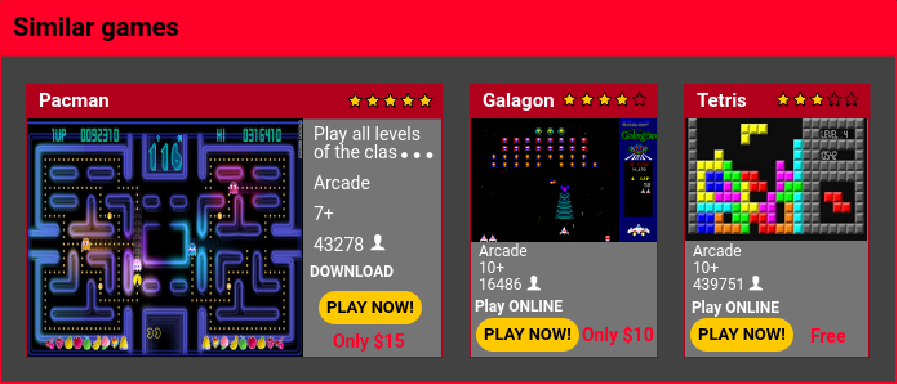
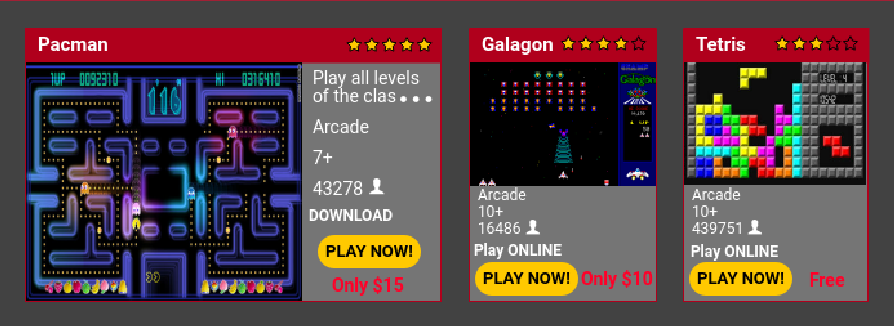
game page terminada

diff --git a/TP5/game-page.html b/TP5/game-page.html
@@ -345,15 +345,17 @@
 
                   </div>
                   <div class="col-8 container-within-card-body">
+
                     <div class="container-tab-content active" id="content-top-players">
+
                       <div class="row container-player-info">
-                        <div class="col-2 container-player-number">
+                        <div class="col-2 container-player-number border-dotted">
                           <button class="top-player-number" type="button" name="button">1</button>
                         </div>
-                        <div class="col-2">
+                        <div class="col-2 border-dotted">
                           <img class="avatar img-fluid" src="images/avatar-lola.jpg" alt="">
                         </div>
-                        <div class="col-5">
+                        <div class="col-4 border-dotted">
                           <div class="row">
                             <div class="col">
                               <h3>Lola_167</h3>
@@ -370,18 +372,26 @@
                             </div>
                           </div>
                         </div>
-                        <div class="col-3">
-
+                        <div class="col-4 container-player-ranking border-dotted">
+                          <div class="row">
+                            <div class="col container-player-ranking-symbol">
+                              <i class="fas fa-arrow-up fa-2x"></i>
+                            </div>
+                            <div class="col container-player-ranking-info">
+                              From 2
+                            </div>
+                          </div>
                         </div>
                       </div>
+
                       <div class="row container-player-info">
-                        <div class="col-2 container-player-number">
+                        <div class="col-2 container-player-number border-dotted">
                           <button class="top-player-number" type="button" name="button">2</button>
                         </div>
-                        <div class="col-2">
+                        <div class="col-2 border-dotted">
                           <img class="avatar img-fluid" src="images/avatar-marky.jpg" alt="">
                         </div>
-                        <div class="col-5">
+                        <div class="col-4 border-dotted">
                           <div class="row">
                             <div class="col">
                               <h3>MarkyMark9</h3>
@@ -398,10 +408,18 @@
                             </div>
                           </div>
                         </div>
-                        <div class="col-3">
-
+                        <div class="col-4 container-player-ranking border-dotted">
+                          <div class="row">
+                            <div class="col container-player-ranking-symbol">
+                              <i class="fas fa-arrow-down fa-2x"></i>
+                            </div>
+                            <div class="col container-player-ranking-info">
+                              From 1
+                            </div>
+                          </div>
                         </div>
                       </div>
+
                       <div class="row container-player-info">
                         <div class="col-2 container-player-number">
                           <button class="top-player-number" type="button" name="button">3</button>
@@ -409,7 +427,7 @@
                         <div class="col-2">
                           <img class="avatar img-fluid" src="images/avatar-john.jpg" alt="">
                         </div>
-                        <div class="col-5">
+                        <div class="col-4">
                           <div class="row">
                             <div class="col">
                               <h3>John_Doe</h3>
@@ -426,17 +444,133 @@
                             </div>
                           </div>
                         </div>
-                        <div class="col-3">
+                        <div class="col-4 container-player-ranking">
+                          <div class="row">
+                            <div class="col container-player-ranking-symbol">
+                              <i class="fas fa-arrow-up fa-2x"></i>
+                            </div>
+                            <div class="col container-player-ranking-info">
+                              From 5
+                            </div>
+                          </div>
+                        </div>
+                      </div>
 
+                    </div>
+
+                    <div class="container-tab-content inactive container-player-comments" id="content-comments">
+                      <div class="row container-comment">
+                        <div class="col-2">
+                          <img class="avatar img-fluid" src="images/avatar-1.jpg" alt="">
+                        </div>
+                        <div class="col-10">
+                          <div class="row">
+                            <div class="col inner-title">
+                              <span id="comment-name-1"></span>
+                            </div>
+                          </div>
+                          <div class="row">
+                            <div class="col">
+                              <span id="comment-text-1"></span>
+                            </div>
+                          </div>
+                        </div>
+                      </div>
+                      <div class="row container-comment">
+                        <div class="col-2">
+                          <img class="avatar img-fluid" src="images/avatar-2.jpg" alt="">
+                        </div>
+                        <div class="col-10">
+                          <div class="row">
+                            <div class="col inner-title">
+                              <span id="comment-name-2"></span>
+                            </div>
+                          </div>
+                          <div class="row">
+                            <div class="col">
+                              <span id="comment-text-2"></span>
+                            </div>
+                          </div>
+                        </div>
+                      </div>
+                      <div class="row container-comment">
+                        <div class="col-2">
+                          <img class="avatar img-fluid" src="images/avatar-3.jpg" alt="">
+                        </div>
+                        <div class="col-10">
+                          <div class="row">
+                            <div class="col inner-title">
+                              <span id="comment-name-3"></span>
+                            </div>
+                          </div>
+                          <div class="row">
+                            <div class="col">
+                              <span id="comment-text-3"></span>
+                            </div>
+                          </div>
+                        </div>
+                      </div>
+                      <div class="row container-comment">
+                        <div class="col-11">
+                          <input type="text" name="" size="60" value="">
+                        </div>
+                        <div class="col-1">
+                          <button class="button-comment" type="button" name="button"><i class="fas fa-comment"></i></button>
                         </div>
                       </div>
                     </div>
-                    <div class="container-tab-content inactive" id="content-comments">
 
-                    </div>
                   </div>
                 </div>
               </div>
+            </div>
+          </div>
+          <div class="col-1">
+
+          </div>
+        </div>
+
+      </section>
+
+      <section class="similar">
+
+        <div class="row container-section">
+          <div class="col-1">
+
+          </div>
+          <div class="col-10">
+            <div class="card">
+              <div class="card-header">
+                Similar games
+              </div>
+              <div class="card-body">
+                <div class="row container-fluid container-within-card-body">
+                  <div class="col container-within-card-body">
+                    <img class="img-similar img-fluid" src="images/similar.png" alt="">
+                  </div>
+                </div>
+              </div>
+            </div>
+          </div>
+          <div class="col-1">
+
+          </div>
+        </div>
+      </section>
+
+      <div class="divider">
+
+      </div>
+
+      <section class="footer">
+
+        <div class="row container-section">
+          <div class="col-1">
+
+          </div>
+          <div class="col-10">
+            <div class="card no-border">
+              <img class="img-fluid" src="images/footer.png" alt="">
             </div>
           </div>
           <div class="col-1">

diff --git a/TP5/js/GamePage.js b/TP5/js/GamePage.js
@@ -1,1 +1,47 @@
 /*jshint esversion: 6 */
+
+let tabTopPlayers = document.getElementById('tab-top-players');
+let tabComments = document.getElementById('tab-comments');
+let contentTopPlayers = document.getElementById('content-top-players');
+let contentComments = document.getElementById('content-comments');
+
+tabTopPlayers.addEventListener('click', function(e){
+  e.preventDefault();
+  tabComments.classList.remove('active');
+  tabComments.classList.add('inactive');
+  tabTopPlayers.classList.remove('inactive');
+  tabTopPlayers.classList.add('active');
+
+  contentTopPlayers.classList.remove('inactive');
+  contentTopPlayers.classList.add('active');
+  contentComments.classList.remove('active');
+  contentComments.classList.add('inactive');
+});
+
+tabComments.addEventListener('click', function(e){
+  e.preventDefault();
+  tabTopPlayers.classList.remove('active');
+  tabTopPlayers.classList.add('inactive');
+  tabComments.classList.remove('inactive');
+  tabComments.classList.add('active');
+
+  contentTopPlayers.classList.remove('active');
+  contentTopPlayers.classList.add('inactive');
+  contentComments.classList.remove('inactive');
+  contentComments.classList.add('active');
+});
+
+fetch('https://jsonplaceholder.typicode.com/comments')
+  .then(response => response.json())
+  .then(function(json) {
+    document.getElementById('comment-name-1').innerHTML = json[0].name;
+    document.getElementById('comment-name-2').innerHTML = json[1].name;
+    document.getElementById('comment-name-3').innerHTML = json[2].name;
+
+    let text1 = json[0].body.slice(0, 50) + "...";
+    let text2 = json[1].body.slice(0, 50) + "...";
+    let text3 = json[2].body.slice(0, 50) + "...";
+    document.getElementById('comment-text-1').innerHTML = text1;
+    document.getElementById('comment-text-2').innerHTML = text2;
+    document.getElementById('comment-text-3').innerHTML = text3;
+  });

diff --git a/TP5/css/page.css b/TP5/css/page.css
@@ -202,6 +202,7 @@ body{
 .inner-title{
   background-color: #b0001c;
   color: white;
+  width: 100%;
 }
 
 .inner-text{
@@ -239,7 +240,7 @@ body{
   border-bottom: 2px solid white;
 }
 
-#tab-comments.inactive{
+#tab-comments.inactive, #tab-top-players.inactive{
   border-right: 2px solid white;
 }
 
@@ -265,16 +266,16 @@ body{
 }
 
 #content-top-players{
-  padding-top: 7px;
+  padding-top: 10px;
 }
 
-.container-player-info{
+.container-player-info, .container-comment{
   color: white;
-  padding: 3px 60px 3px 60px;
+  padding: 3px 60px 1px 60px;
 }
 
 .container-player-number{
-  padding-top: 5px;
+  padding-top: 10px;
 }
 
 .top-player-number{
@@ -294,6 +295,11 @@ body{
 
 .avatar{
   max-height: 59px;
+  padding-top: 10px;
+}
+
+.container-player-info:hover{
+  transform: scale3d(1.1, 1.1, 1.3);
 }
 
 .container-player-info h3{
@@ -304,4 +310,65 @@ body{
 
 .container-player-info h4{
   font-size: 0.75em;
+}
+
+.border-dotted{
+  border-bottom: 1px dotted white;
+}
+
+.container-player-ranking{
+  padding-left: 10px;
+  padding-right: 20px;
+}
+
+.container-player-ranking-symbol{
+  padding: 15px;
+}
+
+.container-player-ranking-info{
+  padding: 22px;
+}
+
+.fa-arrow-up{
+  color: #07f404;
+}
+
+.fa-arrow-down{
+  color: #ff173c;
+}
+
+.container-comment{
+  padding-bottom: 0;
+  padding-top: 5px;
+}
+
+.button-comment{
+  background-color: #ffc900;
+  border: 1px solid #ffc900;
+  color: black;
+}
+
+.img-similar{
+  height: 100%;
+  margin: 0;
+  padding: 0;
+  width: 100%;
+}
+
+.divider{
+  border-bottom: 2px solid #ff0028;
+  margin: 0;
+  padding: 0;
+  position: relative;
+  top: 2em;
+  width: 100%;
+}
+
+.no-border{
+  border: 0;
+}
+
+.footer{
+  position: relative;
+  top: 25px;
 }
